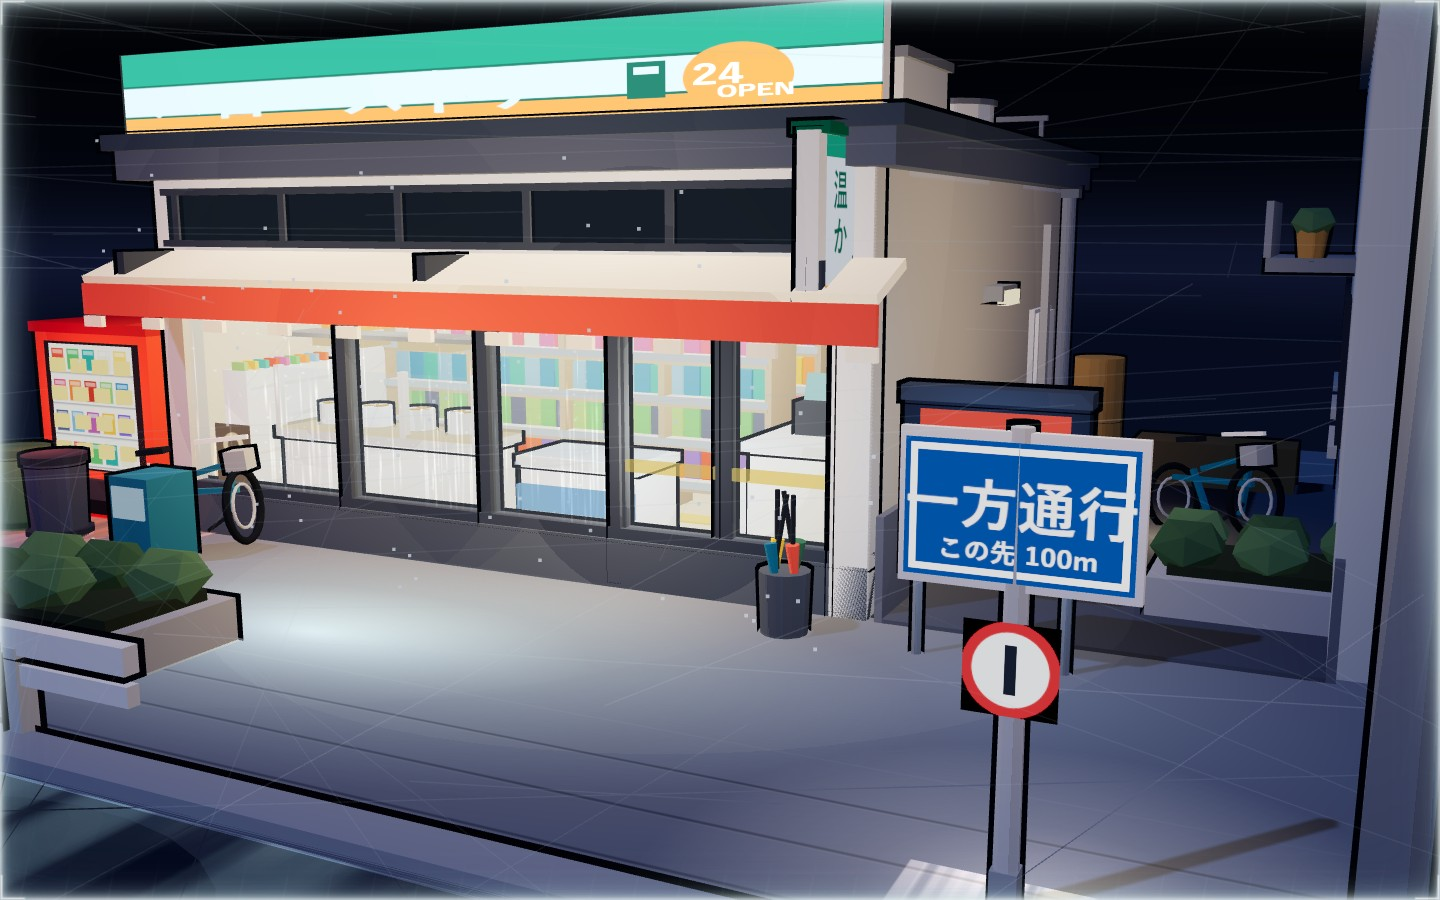
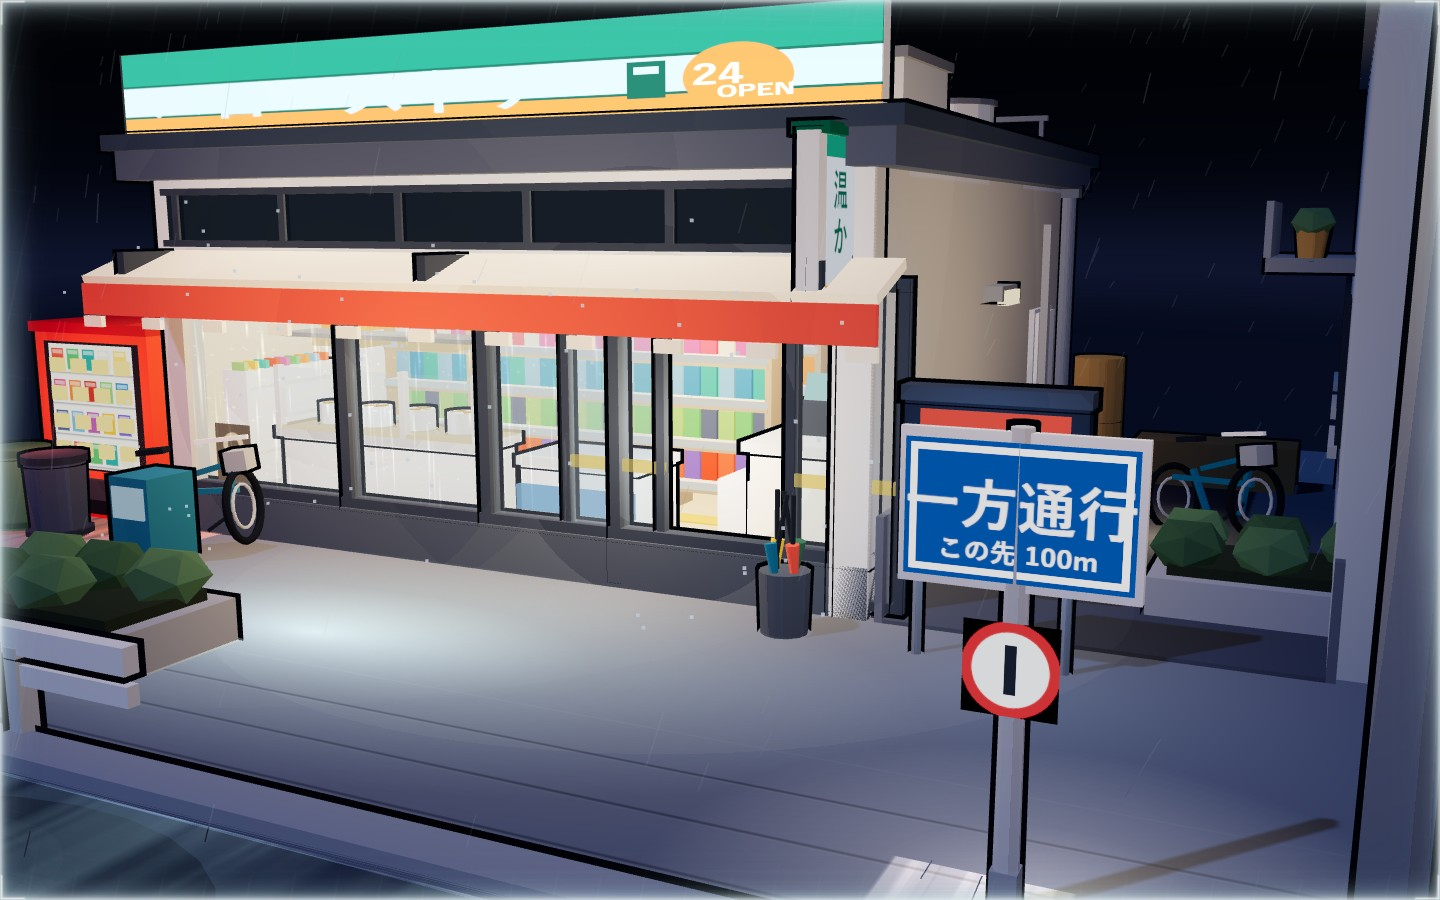
fix: stop rain recycling from stretching drops into a web

diff --git a/tasks/rainy-konbini-diorama/solution/src/parts/weather.js b/tasks/rainy-konbini-diorama/solution/src/parts/weather.js
@@ -4,7 +4,7 @@ import { STORE } from './store.js';
 
 // Everything that moves. All state is preallocated in build(); update() only
 // writes into existing typed arrays and reuses scratch objects.
-const RAIN_COUNT = 130;
+const RAIN_COUNT = 720;
 const DRIP_COUNT = 70;
 const RIPPLE_COUNT = 30;
 
@@ -29,53 +29,84 @@ export function buildWeather(scene, refs) {
   group.name = 'weather';
 
   // ---- rain ---------------------------------------------------------------
+  // Rain has to read as DENSITY, not as individual streaks. A sparse set of
+  // long, equally bright lines crossing in screen space reads as a spider web,
+  // so: many short drops, all tilted the same way by wind, each with its own
+  // brightness so depth still separates near from far, confined to a band that
+  // hugs the diorama rather than filling the empty sky above it.
   const rainPos = new Float32Array(RAIN_COUNT * 2 * 3);
+  const rainCol = new Float32Array(RAIN_COUNT * 2 * 3);
+  const rainX = new Float32Array(RAIN_COUNT);
   const rainY = new Float32Array(RAIN_COUNT);
+  const rainZ = new Float32Array(RAIN_COUNT);
   const rainSpeed = new Float32Array(RAIN_COUNT);
   const rainLen = new Float32Array(RAIN_COUNT);
-  const DROP_TOP = 6.5;
+  const DROP_TOP = 4.6;
+  // Shared wind: every drop leans the same way, so the field reads as weather
+  // rather than as a set of unrelated lines. Declared before the seeding loop
+  // below, which calls placeDrop.
+  const WIND_X = 0.055;
   for (let i = 0; i < RAIN_COUNT; i += 1) {
     rainY[i] = Math.random() * DROP_TOP;
-    rainSpeed[i] = 8 + Math.random() * 9;
-    rainLen[i] = 0.1 + Math.random() * 0.14;
-    placeDrop(rainPos, i, rainY[i], rainLen[i]);
+    rainSpeed[i] = 7 + Math.random() * 7;
+    rainLen[i] = 0.09 + Math.random() * 0.1;
+    placeDrop(rainPos, i, rainY[i], rainLen[i], rainX, rainZ);
+    // Brighter drops read as nearer, which is what stops the field flattening
+    // into one uniform sheet.
+    const b = 0.3 + Math.random() * 0.7;
+    const o = i * 6;
+    rainCol[o] = rainCol[o + 3] = 0.62 * b;
+    rainCol[o + 1] = rainCol[o + 4] = 0.75 * b;
+    rainCol[o + 2] = rainCol[o + 5] = 0.91 * b;
   }
   const rainGeo = new THREE.BufferGeometry();
   rainGeo.setAttribute('position', new THREE.BufferAttribute(rainPos, 3));
-  const rainMat = new THREE.LineBasicMaterial({ color: 0x9fc0e8, transparent: true, opacity: 0.1 });
+  rainGeo.setAttribute('color', new THREE.BufferAttribute(rainCol, 3));
+  const rainMat = new THREE.LineBasicMaterial({
+    vertexColors: true,
+    transparent: true,
+    opacity: 0.12,
+  });
   const rain = new THREE.LineSegments(rainGeo, rainMat);
   rain.frustumCulled = false;
   group.add(rain);
 
-  function placeDrop(arr, i, y, len) {
+  function placeDrop(arr, i, y, len, xs, zs) {
     let x;
     let z;
     do {
       x = (Math.random() - 0.5) * 23;
       z = (Math.random() - 0.5) * 23;
     } while (sheltered(x, z));
+    xs[i] = x;
+    zs[i] = z;
     const o = i * 6;
     arr[o] = x;
     arr[o + 1] = y;
     arr[o + 2] = z;
-    arr[o + 3] = x + 0.05;
+    arr[o + 3] = x + WIND_X;
     arr[o + 4] = y + len;
     arr[o + 5] = z;
   }
 
-  // A brighter, sparser near layer gives the rain some depth.
-  const NEAR_COUNT = 34;
+  // A slightly brighter, faster near layer for parallax. Kept short and low:
+  // long bright drops are what turned this into a visible net.
+  const NEAR_COUNT = 40;
+  const NEAR_LEN = 0.3;
+  const NEAR_TOP = 4.2;
   const nearPos = new Float32Array(NEAR_COUNT * 2 * 3);
+  const nearX = new Float32Array(NEAR_COUNT);
   const nearY = new Float32Array(NEAR_COUNT);
+  const nearZ = new Float32Array(NEAR_COUNT);
   const nearSpeed = new Float32Array(NEAR_COUNT);
   for (let i = 0; i < NEAR_COUNT; i += 1) {
-    nearY[i] = Math.random() * 9;
-    nearSpeed[i] = 14 + Math.random() * 8;
-    placeDrop(nearPos, i, nearY[i], 0.6);
+    nearY[i] = Math.random() * NEAR_TOP;
+    nearSpeed[i] = 12 + Math.random() * 7;
+    placeDrop(nearPos, i, nearY[i], NEAR_LEN, nearX, nearZ);
   }
   const nearGeo = new THREE.BufferGeometry();
   nearGeo.setAttribute('position', new THREE.BufferAttribute(nearPos, 3));
-  const near = new THREE.LineSegments(nearGeo, new THREE.LineBasicMaterial({ color: 0xcfe2ff, transparent: true, opacity: 0.14 }));
+  const near = new THREE.LineSegments(nearGeo, new THREE.LineBasicMaterial({ color: 0xcfe2ff, transparent: true, opacity: 0.16 }));
   near.frustumCulled = false;
   group.add(near);
 
@@ -130,37 +161,47 @@ export function buildWeather(scene, refs) {
 
   function update(time, dt) {
     // Rain: fall and wrap, skipping sheltered footprints.
+    // Both vertices of every segment are rewritten from the same x/y/z each
+    // frame. Writing only the first vertex on respawn left the second stranded
+    // at its old position, which stretched each recycled drop into a long line
+    // across the scene — the crossed lines were what read as a spider web.
     for (let i = 0; i < RAIN_COUNT; i += 1) {
       rainY[i] -= rainSpeed[i] * dt;
       if (rainY[i] < 0) {
-        rainY[i] = DROP_TOP + Math.random() * 2;
+        rainY[i] = DROP_TOP + Math.random() * 1.5;
         let x;
         let z;
         do {
           x = (Math.random() - 0.5) * 23;
           z = (Math.random() - 0.5) * 23;
         } while (sheltered(x, z));
-        const o = i * 6;
-        rainPos[o] = x;
-        rainPos[o + 2] = z;
+        rainX[i] = x;
+        rainZ[i] = z;
       }
       const o = i * 6;
+      rainPos[o] = rainX[i];
       rainPos[o + 1] = rainY[i];
+      rainPos[o + 2] = rainZ[i];
+      rainPos[o + 3] = rainX[i] + WIND_X;
       rainPos[o + 4] = rainY[i] + rainLen[i];
+      rainPos[o + 5] = rainZ[i];
     }
     rainGeo.attributes.position.needsUpdate = true;
 
     for (let i = 0; i < NEAR_COUNT; i += 1) {
       nearY[i] -= nearSpeed[i] * dt;
       if (nearY[i] < 0) {
-        nearY[i] = 8 + Math.random() * 1.5;
-        const o = i * 6;
-        nearPos[o] = (Math.random() - 0.5) * 20;
-        nearPos[o + 2] = (Math.random() - 0.5) * 20;
+        nearY[i] = NEAR_TOP + Math.random() * 1.2;
+        nearX[i] = (Math.random() - 0.5) * 20;
+        nearZ[i] = (Math.random() - 0.5) * 20;
       }
       const o = i * 6;
+      nearPos[o] = nearX[i];
       nearPos[o + 1] = nearY[i];
-      nearPos[o + 4] = nearY[i] + 0.34;
+      nearPos[o + 2] = nearZ[i];
+      nearPos[o + 3] = nearX[i] + WIND_X;
+      nearPos[o + 4] = nearY[i] + NEAR_LEN;
+      nearPos[o + 5] = nearZ[i];
     }
     nearGeo.attributes.position.needsUpdate = true;
 

diff --git a/tasks/rainy-konbini-diorama/solution/RESULTS.md b/tasks/rainy-konbini-diorama/solution/RESULTS.md
@@ -103,6 +103,35 @@ Three `THREE.Material: parameter 'transparent' has value of undefined` warnings
 from `flat()` (`false || undefined`) and a removed-API warning for
 `PCFSoftShadowMap` were also resolved. The final build loads with a clean console.
 
+## Correction after review — the rain rendered as a spider web
+
+The user reviewed the published candidate and reported that the rain looked like
+a spider web falling through the scene. It did, and there were two independent
+causes:
+
+1. **Recycled drops were stretched into long lines.** The rain update loop wrote
+   only the *first* vertex of each line segment on respawn and left the second
+   vertex at its old position. Every drop that reached the ground was therefore
+   redrawn as a segment running from its new location back to wherever it had
+   been, potentially across the whole 23-unit volume. Those accumulated into a
+   mesh of crossing lines. Both vertices are now rewritten every frame from a
+   single source of truth (`rainX`/`rainY`/`rainZ`), which removes the whole
+   class of bug.
+2. **The field was too sparse and too long to read as weather.** 130 drops of
+   0.1–0.24 units, all identically bright, spread over a volume reaching y = 6.5
+   — above the horizon, where the rain had nothing to sit against and read as
+   floating wire. Rain now uses 720 drops of 0.09–0.19 units at opacity 0.12,
+   confined to y ≤ 4.6, each with its own brightness via vertex colours so near
+   and far still separate, all leaning the same way on a shared wind vector.
+   The faster near-parallax layer was shortened from 0.6 to 0.3 units and pulled
+   down from y ≤ 9 to y ≤ 4.2; those long bright drops were the most visible
+   part of the net.
+
+The corrected candidate is committed separately and the original archive tag is
+left untouched; see the supersession note in `imports.json`. All evidence
+screenshots were recaptured after the fix.
+
+
 ## Known limitations
 
 - Requires a WebGL-capable browser.
